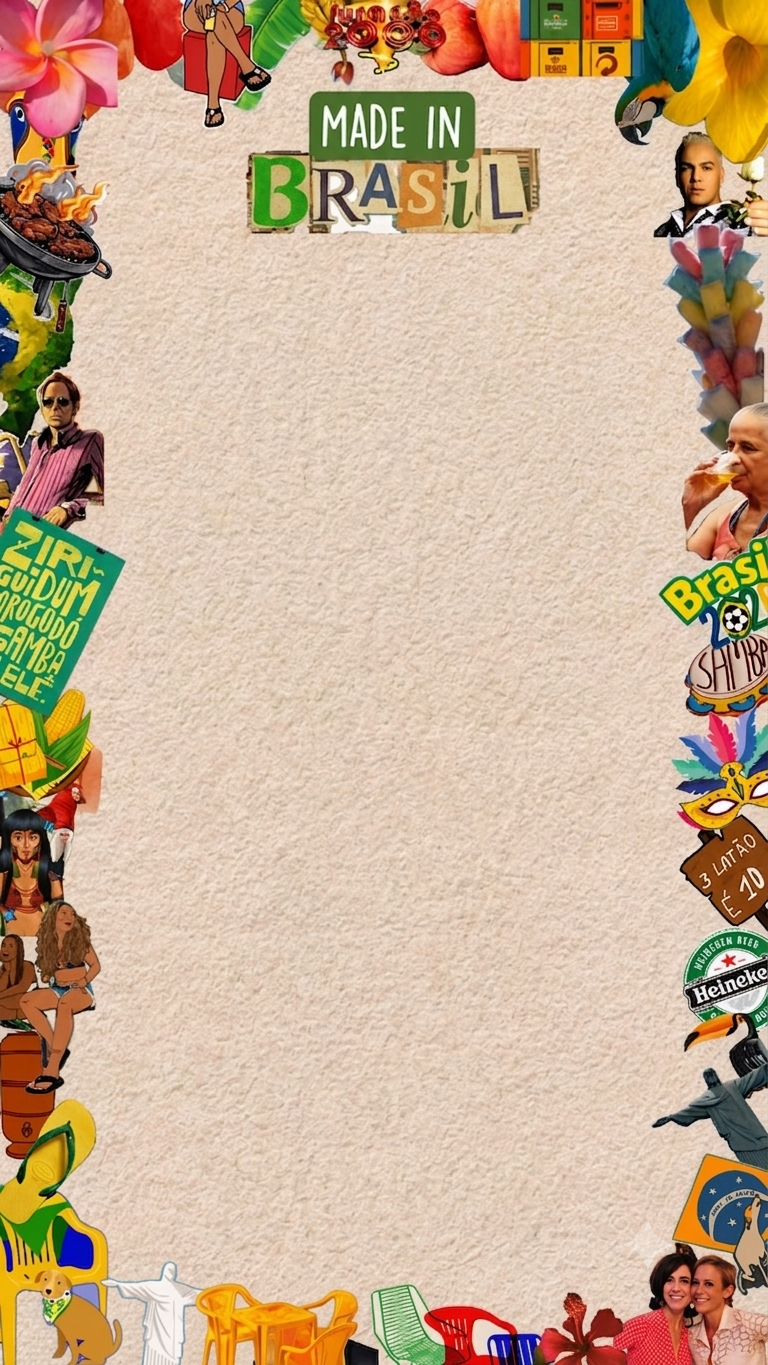
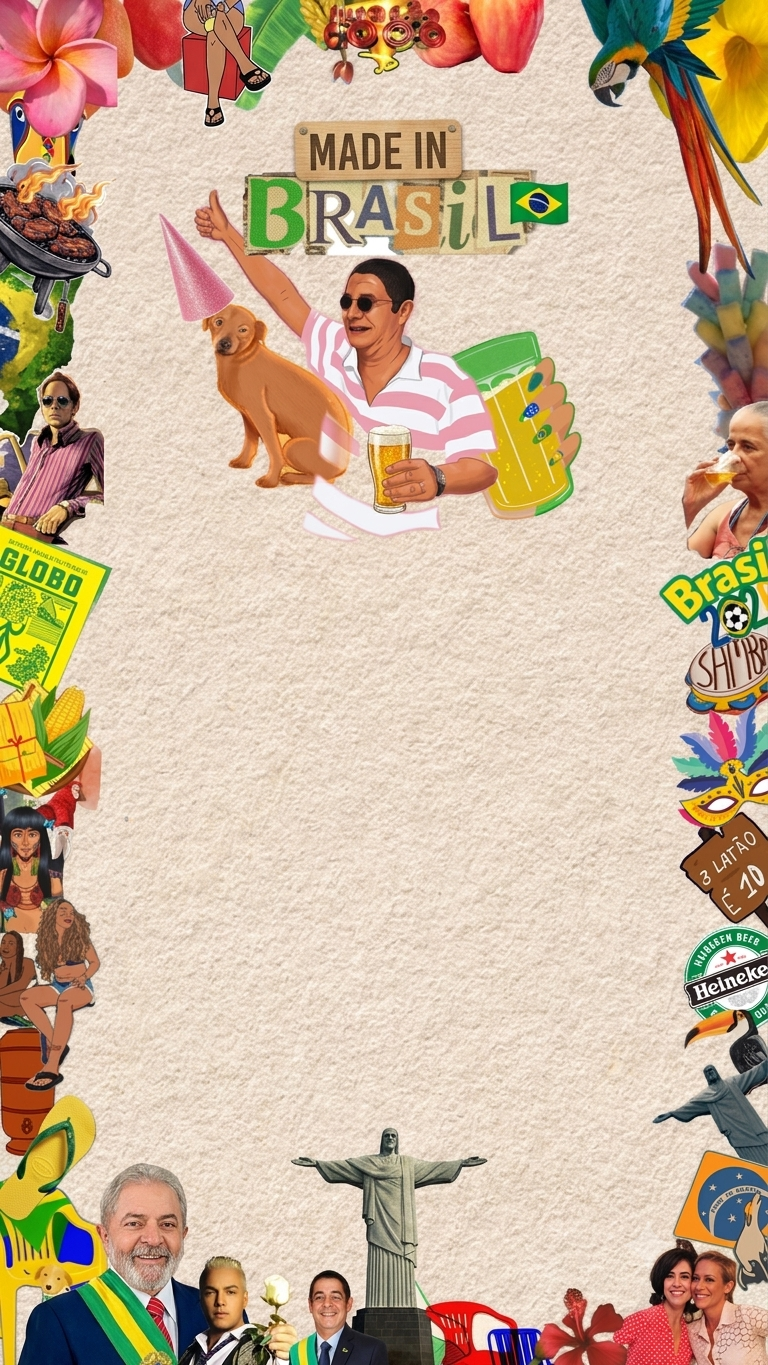
Add files via upload

diff --git a/index.html b/index.html
@@ -12,7 +12,7 @@
       background-color: #f7e9d7; 
       
       /* 1. Nome exato da sua nova imagem */
-      background-image: url('fundo1.png'); 
+      background-image: url('fundo4.png'); 
       
       /* 2. Não deixa a imagem se repetir */
       background-repeat: no-repeat; 
@@ -33,14 +33,26 @@
     }
 
     .container {
-      background: rgba(255, 255, 255, 0.90);
-      backdrop-filter: blur(8px);
+      /* Removemos a cor de fundo e o blur antigos */
+      /* background: rgba(255, 255, 255, 0.90); */
+      /* backdrop-filter: blur(8px); */
+
+      /* Adicionamos a imagem como fundo */
+      background-image: url('fundo3.png'); /* ⬅ COLOQUE O NOME DA IMAGEM AQUI */
+      background-repeat: no-repeat;
+      background-position: center;
+      background-size: cover; /* Faz a imagem preencher todo o container */
+
       border-radius: 20px;
       padding: 25px 20px;
       max-width: 550px;
       margin: 20px auto;
       box-shadow: 0 8px 25px rgba(0, 0, 0, 0.15);
       border: 2px solid #006b3f;
+      
+      /* Opcional: Se o texto ficar difícil de ler em cima da imagem, 
+         descomente a linha abaixo para escurecer um pouquinho a imagem */
+      /* background-blend-mode: overlay; background-color: rgba(255,255,255,0.8); */
     }
 
     .titulo {
@@ -163,13 +175,6 @@
   </style>
 </head>
 <body>
-<br>
-  <br>
-  <br>
-  <br>
-  <br>
-  <br>
-  <br>
   <div class="container">
     <div class="subtitulo"><img src="vi.png" width="350px"></div>
 
@@ -189,10 +194,9 @@
       <div class="lista" id="resultado"></div>
 
       <button class="btn-confirmar" onclick="confirmar()">Confirmar Presença 🎉</button>
+    
     </div>
-  </div>
-
-  <div class="container">
+    <p></p>
     <h3 style="color: #006b3f; margin-top: 0;">Local da Festa 📍</h3>
     <p style="font-size: 14px; margin-bottom: 10px;">Confira no mapa abaixo como chegar:</p>
     
@@ -205,7 +209,23 @@
       allowfullscreen=""
       loading="lazy">
     </iframe>
+
   </div>
+<!--
+  <div class="container">
+    <h3 style="color: #006b3f; margin-top: 0;">Local da Festa 📍</h3>
+    <p style="font-size: 14px; margin-bottom: 10px;">Confira no mapa abaixo como chegar:</p>
+    
+    Substitua o src pelo link de iframe do Google Maps do local da festa da Vitória 
+    <iframe
+      src="https://www.google.com/maps/embed?pb=!1m18!1m12!1m3!1d3678.674452553259!2d-43.286794199999996!3d-22.777459699999998!2m3!1f0!2f0!3f0!3m2!1i1024!2i768!4f13.1!3m3!1m2!1s0x997b145b834baf%3A0x64ff31b4d31fdfe0!2zRXNwYcOnbyBNYW5zw6Nv!5e0!3m2!1spt-BR!2sbr!4v1776272783970!5m2!1spt-BR!2sbr"
+      width="100%"
+      height="250"
+      style="border:0;"
+      allowfullscreen=""
+      loading="lazy">
+    </iframe>
+  </div>-->
 
   <script>
     // 🗓 Data da festa da Vitória
